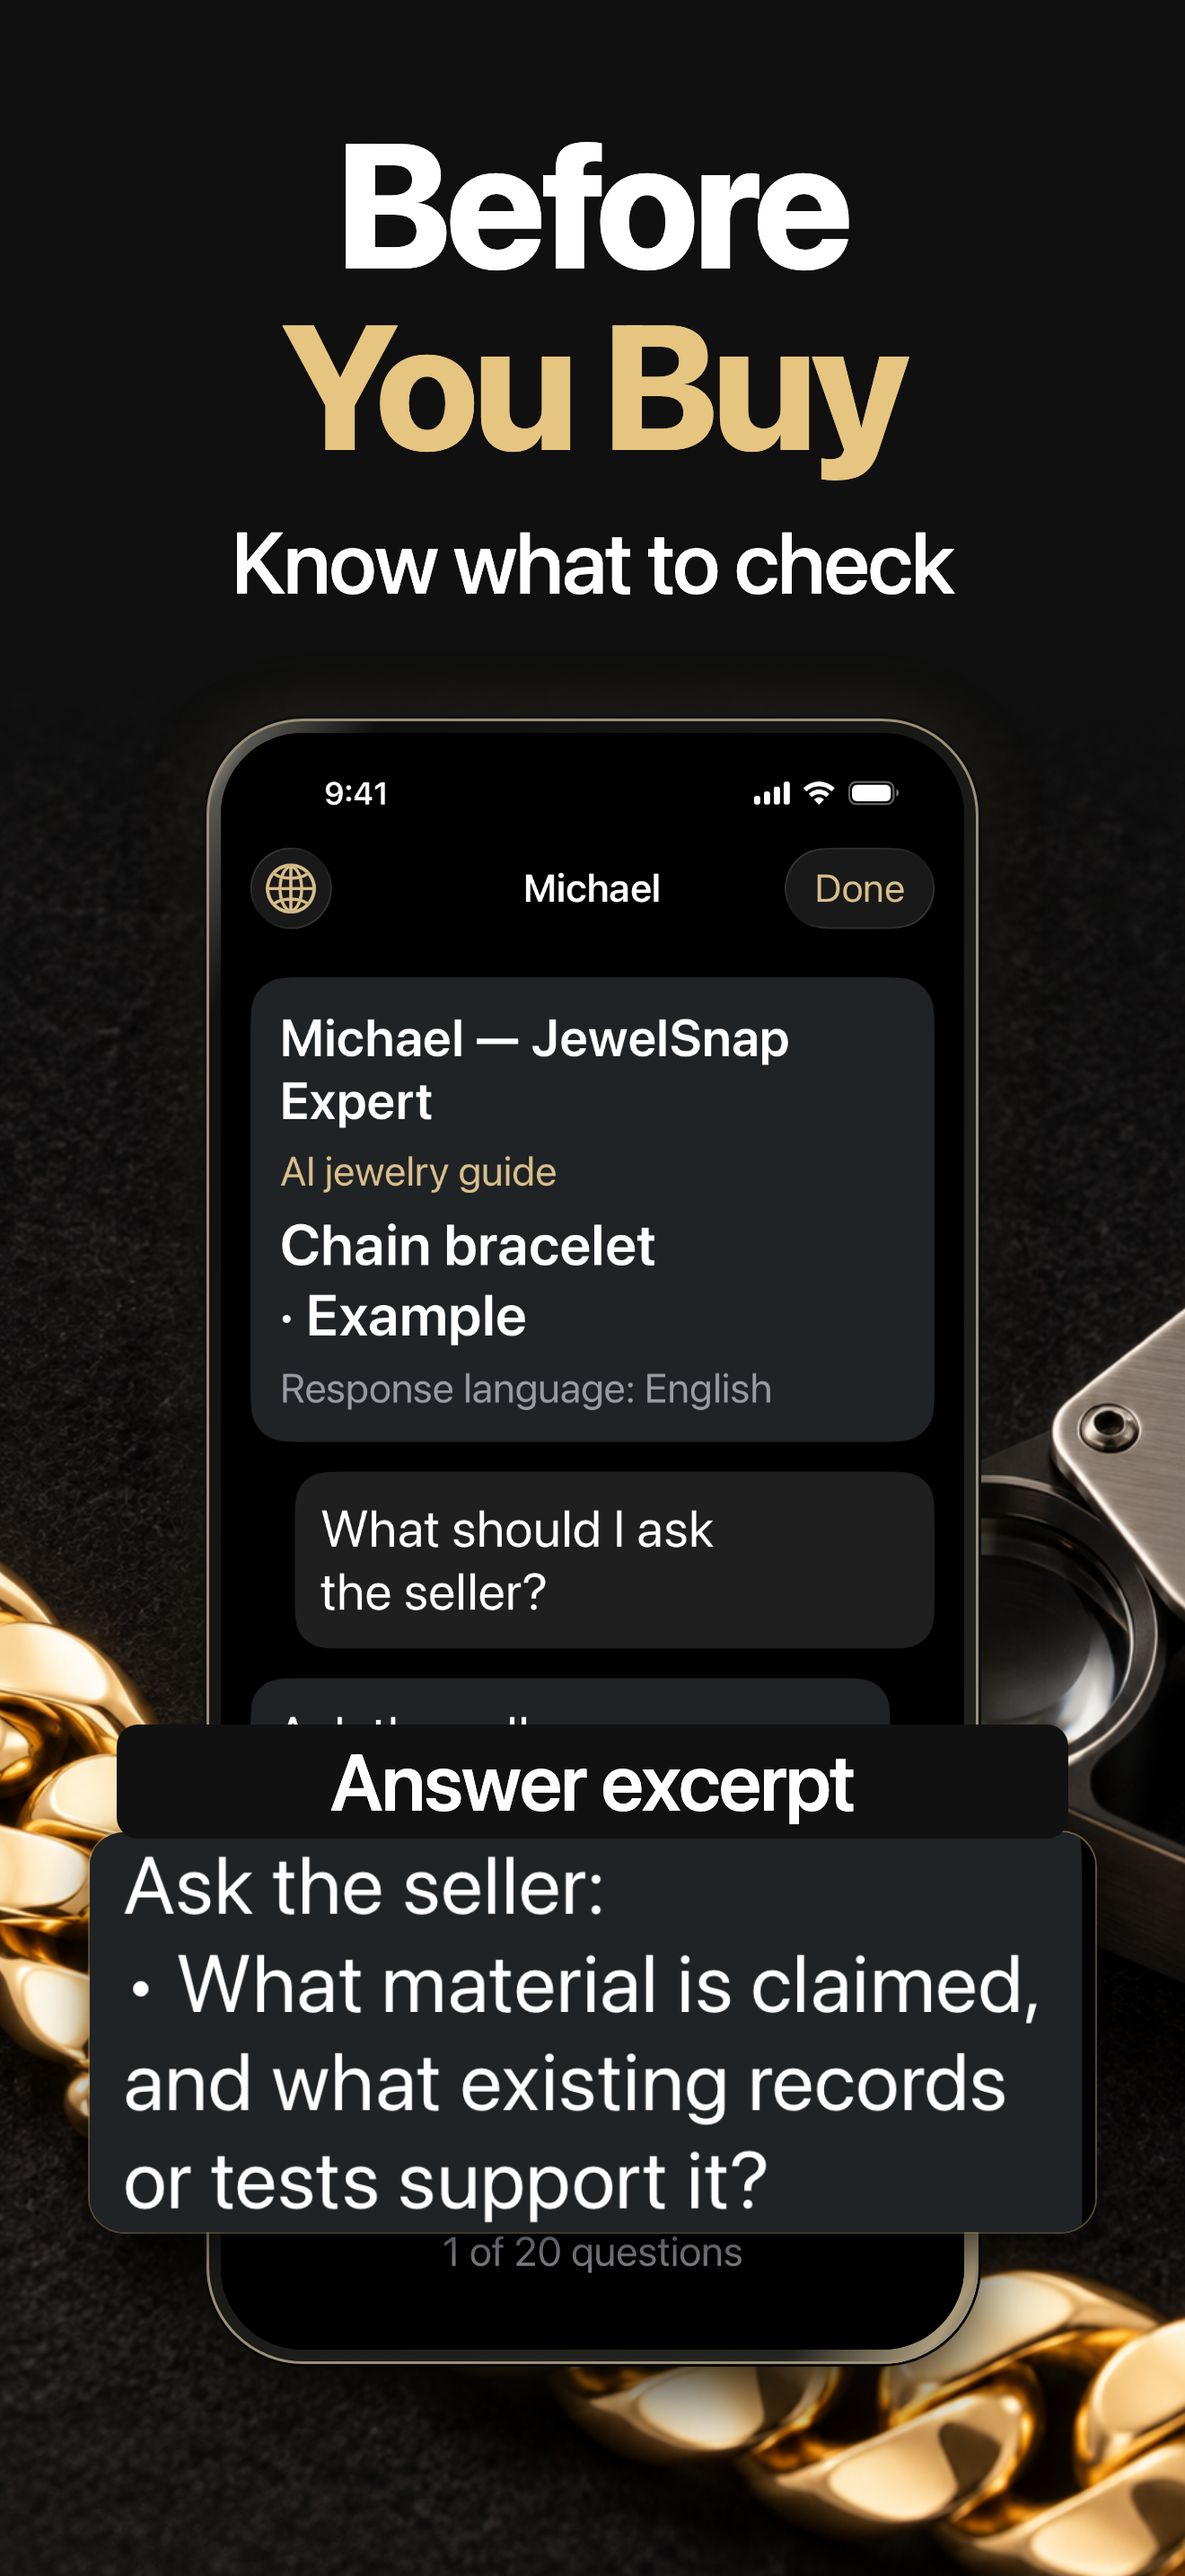
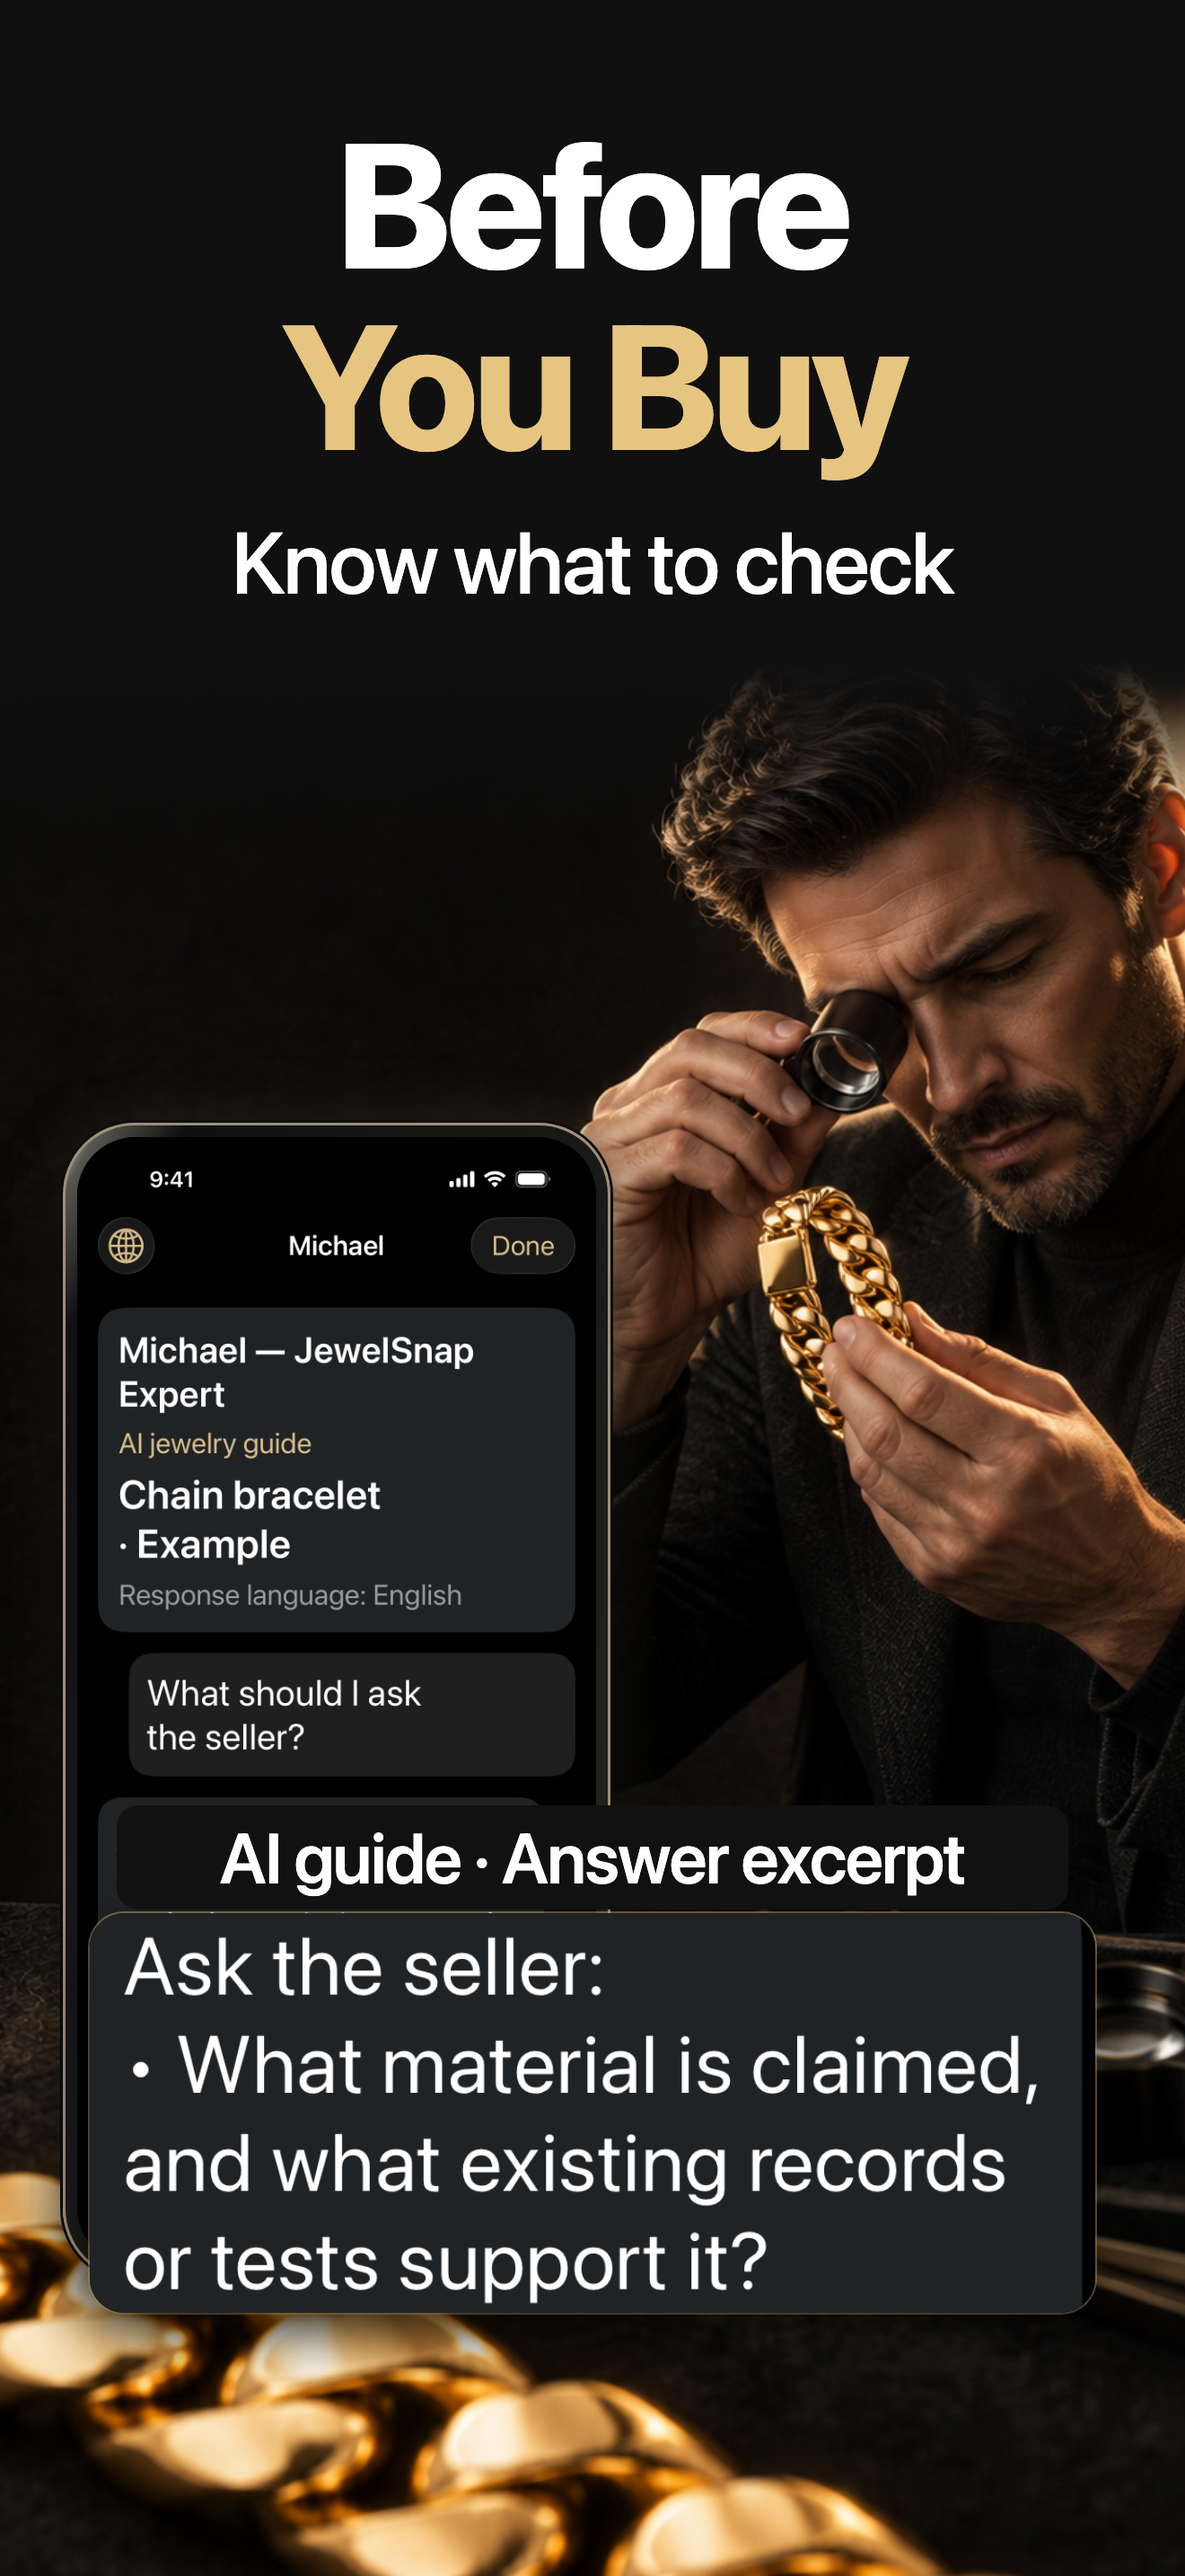
Add expert illustration to V03 and revise V07 story accent

diff --git a/gallery.js b/gallery.js
@@ -1,15 +1,15 @@
 (async()=>{
  const $=s=>document.querySelector(s);let data;
- try{const r=await fetch('gallery.json');if(!r.ok)throw Error('load');data=await r.json();}catch{$('#gallery').textContent='Не удалось загрузить галерею. Обновите страницу.';return;}
+ try{const r=await fetch('gallery.json', {cache:'no-store'});if(!r.ok)throw Error('load');data=await r.json();}catch{$('#gallery').textContent='Не удалось загрузить галерею. Обновите страницу.';return;}
  const valid=id=>/^[VONR]0[1-8]$/.test(id);
- const original=id=>`originals/${id}.${id.startsWith('O')?'jpg':'png'}`;
+ const original=id=>`originals/${id}.${id.startsWith('O')?'jpg':'png'}?v=${encodeURIComponent(data.version)}`;
  const container=$('#gallery');container.textContent='';
  for(const series of data.series){
   const section=document.createElement('section');section.id=series.prefix;
   const heading=document.createElement('h2');const tag=document.createElement('span');tag.className='tag';tag.textContent=series.prefix;heading.append(tag,document.createTextNode(series.name));section.append(heading);
   const row=document.createElement('div');row.className='row';row.setAttribute('aria-label',series.name);row.tabIndex=0;
-  for(const id of series.frames){if(!valid(id))continue;const f=document.createElement('figure');const cap=document.createElement('figcaption');cap.textContent=id;const button=document.createElement('button');button.className='shot';button.dataset.id=id;button.setAttribute('aria-label',`Увеличить ${id}`);const img=document.createElement('img');img.src=`previews/${id}.jpg`;img.alt=`${id} — ${series.name}`;img.width=440;img.height=956;img.loading=id.startsWith('V')?'eager':'lazy';button.append(img);f.append(cap,button);row.append(f);
-   button.addEventListener('click',()=>{const url=original(id);$('#viewer-title').textContent=id;$('#image-error').hidden=true;$('#large').hidden=false;$('#large').alt=`${id} — полный размер`;$('#large').src=url;$('#download').href=url;$('#download').download=url.split('/').pop();$('#full').href=url;$('#retry-original').href=url;$('#viewer').showModal();});
+  for(const id of series.frames){if(!valid(id))continue;const f=document.createElement('figure');const cap=document.createElement('figcaption');cap.textContent=id;const button=document.createElement('button');button.className='shot';button.dataset.id=id;button.setAttribute('aria-label',`Увеличить ${id}`);const img=document.createElement('img');img.src=`previews/${id}.jpg?v=${encodeURIComponent(data.version)}`;img.alt=`${id} — ${series.name}`;img.width=440;img.height=956;img.loading=id.startsWith('V')?'eager':'lazy';button.append(img);f.append(cap,button);row.append(f);
+   button.addEventListener('click',()=>{const url=original(id);$('#viewer-title').textContent=id;$('#image-error').hidden=true;$('#large').hidden=false;$('#large').alt=`${id} — полный размер`;$('#large').src=url;$('#download').href=url;$('#download').download=url.split('/').pop().split('?')[0];$('#full').href=url;$('#retry-original').href=url;$('#viewer').showModal();});
   }
   section.append(row);container.append(section);
  }

diff --git a/index.html b/index.html
@@ -1,6 +1,6 @@
 <!doctype html><html lang="ru"><head><meta charset="utf-8"><meta name="viewport" content="width=device-width,initial-scale=1"><meta name="robots" content="noindex,nofollow"><title>JewelSnap — выбираем скриншоты</title><link rel="stylesheet" href="gallery.css"></head><body>
-<header><h1>JewelSnap · 4 варианта</h1><p>Выберите кадры и пришлите номера: <strong>V01, O02, N03…</strong></p><p class="small">Нажмите на кадр, чтобы увеличить. Проведите по ряду, чтобы увидеть остальные.</p><nav><a href="comparison-v4.png" target="_blank" rel="noopener">Первые тройки рядом · PNG</a><a href="archive.html">Архив с обоснованиями</a></nav></header>
+<header><h1>JewelSnap · 4 варианта</h1><p>Выберите кадры и пришлите номера: <strong>V01, O02, N03…</strong></p><p class="small">Нажмите на кадр, чтобы увеличить. Проведите по ряду, чтобы увидеть остальные.</p><nav><a href="comparison-v4.png?v=2" target="_blank" rel="noopener">Первые тройки рядом · PNG</a><a href="archive.html">Архив с обоснованиями</a></nav></header>
 <main id="gallery"><p>Загрузка изображений…</p></main>
 <footer>Новая серия V: 1320 × 2868 · <span id="version"></span><br>Это варианты для выбора. Действующие скриншоты App Store здесь не заменяются.</footer>
 <dialog id="viewer" aria-labelledby="viewer-title"><div class="viewer-tools"><strong id="viewer-title"></strong><a id="download" download>Скачать</a><button id="close" aria-label="Закрыть изображение">Закрыть ×</button></div><a id="full" target="_blank" rel="noopener" aria-label="Открыть оригинал"><img id="large" alt=""></a><p id="image-error" role="status" hidden>Не удалось загрузить изображение. <a id="retry-original" target="_blank" rel="noopener">Открыть оригинал</a></p></dialog>
-<script src="gallery.js"></script></body></html>
+<script src="gallery.js?v=2"></script></body></html>

diff --git a/README.md b/README.md
@@ -2,7 +2,7 @@
 
 Public static gallery: https://love8ko.github.io/jewelsnap-screenshots-review/
 
-Version: v4-2026-09-10.1
+Version: v4-2026-09-10.2
 
 V01–V08: short headlines, eight distinct dark studio scenes, native app UI.
 O01–O08: original App Store series. N01–N08: previous light series. R01–R08: previous studio series.
@@ -12,3 +12,5 @@ Click an image to enlarge/download and send selected IDs in the conversation. No
 All V originals are 1320 × 2868. comparison-v4.png compares the first three frames of all four series. v4-provenance.json documents the illustrative examples.
 
 This repository contains only static review materials, not app source or credentials. Publishing here does not update App Store screenshots.
+
+Revision 2: V03 adds a fictional specialist illustration with a loupe; V07 replaces the enlarged Save story button with A family keepsake.
